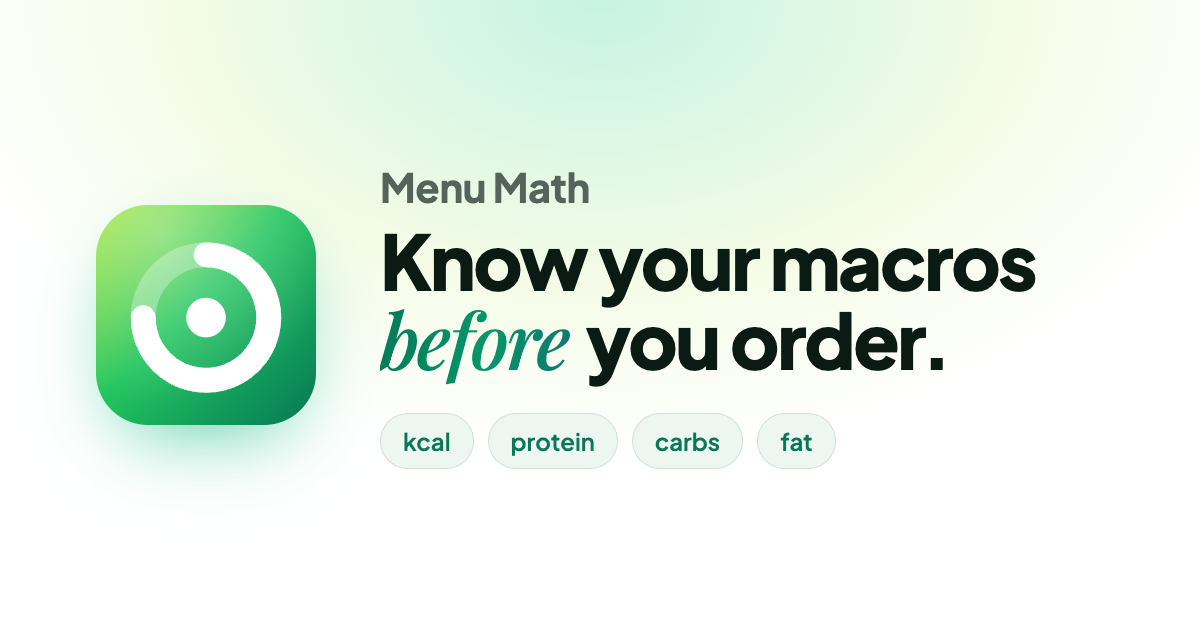
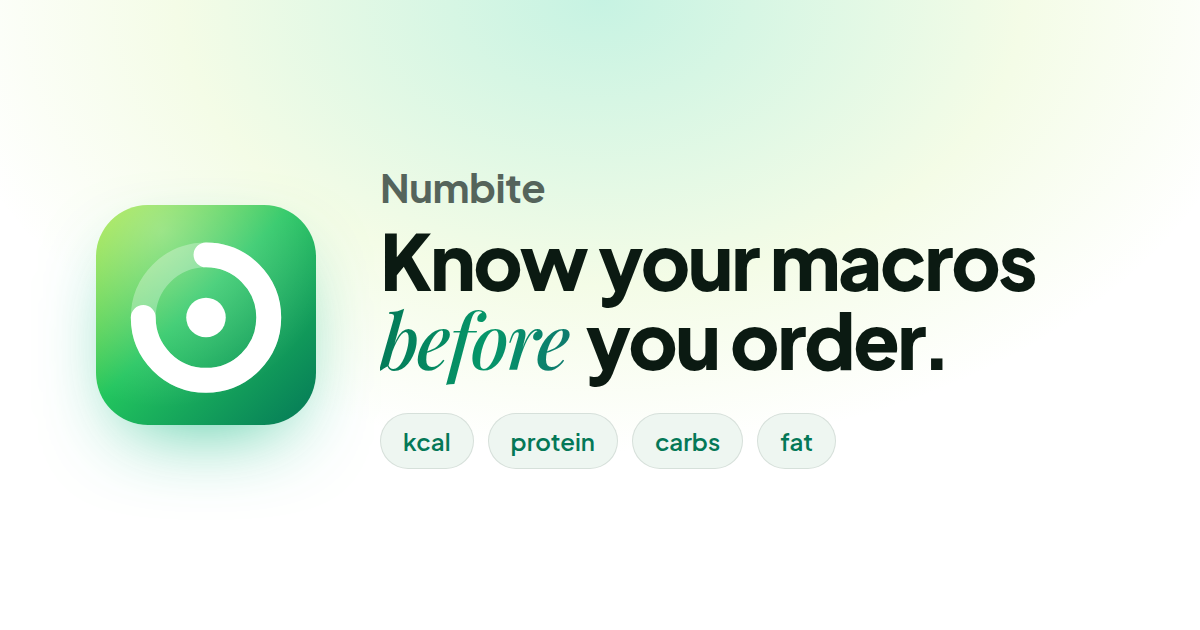
Rename the app to Numbite
Founder 2026-10-12: "I like numbite" and "Yes, rename to Numbite". "Menu Math"
used the US spelling and sounded restaurant-only; about 80 names were checked
and most are taken. Numbite has no app on the UK or US App Store, nothing on
the web, and its .com, .co.uk and .app domains were free.

site.config.ts (name; App Store title "Numbite: Calories & Protein"),
AppConfig.appName and the Xcode display name; every screen and translation
picks it up through site.name / {app}. Social card re-rendered, offline cache
bumped to mm-v4, store text, build guide, README and progress log updated.
Bundle ID, scheme, storage keys, icon and Pip are unchanged.

Claude-Session: https://claude.ai/code/session_013WSw8yjNVgJY2jsVdLxC3q

diff --git a/web/public/sw.js b/web/public/sw.js
@@ -1,4 +1,4 @@
-/* Menu Math web app service worker.
+/* Numbite web app service worker.
  *
  * Goal: after you've opened something once, it keeps working with a poor or no connection.
  *  - /_next/static/* and /icons/*: cache-first (Next.js names contain a content hash; icons do not, so bump VERSION when they change)
@@ -10,7 +10,7 @@
  * Nothing under /api/ is ever cached, and only same-origin GET requests are handled.
  * Bump VERSION to drop all old caches.
  */
-const VERSION = "mm-v3"; // v3: green app icon (icon files keep their names, so changing them needs a bump)
+const VERSION = "mm-v4"; // v4: renamed to Numbite (the app shells carry the name); v3: green app icon (icon files keep their names, so changing them needs a bump)
 const STATIC = `${VERSION}-static`;
 const PAGES = `${VERSION}-pages`;
 const DATA = `${VERSION}-data`;

diff --git a/MenuMacros/App/AppConfig.swift b/MenuMacros/App/AppConfig.swift
@@ -4,7 +4,7 @@ import Foundation
 /// (docs/APP_BUILD.md): the web app reaches the live website itself (NEXT_PUBLIC_REMOTE_BASE in scripts/build_app_web.sh), so the
 /// example.com addresses below are only for the native screens planned later (docs/BUILD_PLAN.md).
 nonisolated enum AppConfig {
-    static let appName = "Menu Math"   // user-facing name; keep in sync with web/site.config.ts and docs/STORE.md
+    static let appName = "Numbite"   // user-facing name; keep in sync with web/site.config.ts and docs/STORE.md
     /// Where the packed web app starts (Features/WebApp/WebAppFiles.swift). The API on the live website allows this origin (web/lib/cors.ts).
     static let webAppStartURL = URL(string: "app://menumath/app")!
     static let websiteURL = URL(string: "https://example.com")!

diff --git a/web/lib/mm/aiRecipe.ts b/web/lib/mm/aiRecipe.ts
@@ -84,7 +84,7 @@ export function dietText(d: DietPrefs): string {
   return parts.length ? parts.join("; ") : "no restrictions";
 }
 
-export const RECIPE_SYSTEM_PROMPT = `You are Pip, the friendly recipe helper in Menu Math, a UK app people use to eat out, shop and cook. You write one simple home recipe.
+export const RECIPE_SYSTEM_PROMPT = `You are Pip, the friendly recipe helper in Numbite, a UK app people use to eat out, shop and cook. You write one simple home recipe.
 
 Rules:
 - Use only ingredients from the pantry list, referred to by their key. Each line is a real product at the person's supermarket with its label figures per 100 g or ml as sold ("drained" means per 100 g of drained weight).

diff --git a/web/site.config.ts b/web/site.config.ts
@@ -1,8 +1,8 @@
 // One place for names, links and copy shared across the website.
 // Change `name` here if you pick a different app name (and update docs/STORE.md to match).
 export const site = {
-  name: "Menu Math",
-  appStoreTitle: "Menu Math: Fast Food Macros",
+  name: "Numbite",
+  appStoreTitle: "Numbite: Calories & Protein",
   tagline: "Know your macros before you order.",
   description:
     "Full calories, protein, carbs, fat and salt for every item at popular UK restaurant chains, and the best order for what you have left today.",

diff --git a/MenuMacros/Services/BarcodeScanner.swift b/MenuMacros/Services/BarcodeScanner.swift
@@ -6,7 +6,7 @@ import VisionKit
 nonisolated enum ScanOutcome: Equatable, Sendable {
     case code(String)
     case cancelled
-    /// The person refused the camera (Settings › Menu Math).
+    /// The person refused the camera (Settings › Numbite).
     case denied
     /// This iPhone can't scan (no camera, or no Neural Engine for the live scanner).
     case unavailable

diff --git a/MenuMacrosTests/AppConfigTests.swift b/MenuMacrosTests/AppConfigTests.swift
@@ -3,7 +3,7 @@ import Testing
 
 struct AppConfigTests {
     @Test func appNameMatchesTheWebsite() {
-        #expect(AppConfig.appName == "Menu Math")
+        #expect(AppConfig.appName == "Numbite")
     }
 
     @Test func theWebAppStartsOnTheAppsOwnScheme() {

diff --git a/docs/STORE.md b/docs/STORE.md
@@ -1,15 +1,17 @@
 # App Store listing and release checklist (free launch)
 
 Founder 2026-10-12: ship the app **free** (no subscription, no AI recipe maker), then add Pro and the extras in updates. The app is the web
-app packed inside an iPhone app (docs/APP_BUILD.md). Name: **Menu Math** ("MenuMacros" is taken by a similar app, "MenuMacros: Eat Out
-Healthily", June 2026). Everything below is a **draft for the founder to approve** (CLAUDE.md rule 8): numbers are from the published
+app packed inside an iPhone app (docs/APP_BUILD.md). Name: **Numbite** (founder 2026-10-12; numbers + bite). Checked that day: no app
+called Numbite on the UK or US App Store, nothing by that name on the web, and numbite.com, numbite.co.uk and numbite.app free; it is a
+coined word, the strongest kind of trade mark. Earlier names were dropped: "MenuMacros" is taken ("MenuMacros: Eat Out Healthily", June
+2026) and "Menu Math" used the US spelling and sounded restaurant-only. Everything below is a **draft for the founder to approve** (CLAUDE.md rule 8): numbers are from the published
 data on 12 October 2026; if web/app-content.json leaves shops or photos out of the app, update the numbers and the description.
 
 | Field (limit) | Text |
 |---|---|
-| App name (30) | **Menu Math: Eat Out & Macros** (27) |
-| Subtitle (30) | **Calories for UK menus & shops** (29) |
-| Keywords (100) | `calories,protein,macros,nutrition,restaurant,menu,counter,diet,glp1,recipes,grocery,takeaway,uk` (95) |
+| App name (30) | **Numbite: Calories & Protein** (27) |
+| Subtitle (30) | **UK menus, shops & recipes** (25) |
+| Keywords (100) | `macros,nutrition,restaurant,counter,diet,glp1,grocery,takeaway,supermarket,cooking,meal,food` (92; words already in the name and subtitle are indexed anyway, so they aren't repeated) |
 | Primary / secondary category | Food & Drink / Health & Fitness |
 | Promotional text (170) | Every dish at 238 UK restaurants and 68,000 supermarket products, with calories and protein. Free, no account, works offline. (125) |
 | Price | Free (no in-app purchases in this version) |
@@ -20,7 +22,7 @@ data on 12 October 2026; if web/app-content.json leaves shops or photos out of t
 
 ## Description (draft)
 
-Know the numbers before you eat. Menu Math shows the calories, protein, carbs and fat for every dish at 238 UK restaurants, cafés and
+Know the numbers before you eat. Numbite shows the calories, protein, carbs and fat for every dish at 238 UK restaurants, cafés and
 pubs, taken from each chain's own published nutrition information, with the source and the date we checked shown on every menu.
 
 Eat out. Search a restaurant or find the ones near you, see every dish's numbers, and get the best orders for your goal and what you
@@ -40,7 +42,7 @@ Easy to use. Large text options, a plain layout, and 11 languages.
 Private by design. No account, no ads, no tracking. Your settings, saved meals and lists stay on your phone. Your location is used on
 your phone only.
 
-Every feature is free. Menu Math isn't affiliated with any restaurant or shop, and doesn't give medical advice.
+Every feature is free. Numbite isn't affiliated with any restaurant or shop, and doesn't give medical advice.
 
 ## Screenshots (6.9" iPhone, 1320 × 2868)
 
@@ -85,7 +87,7 @@ Pro and a domain before submitting.)
 
 ## Notes for App Review (draft)
 
-"Menu Math shows restaurants' and supermarkets' published nutrition information, works fully offline, and has no account or login. The
+"Numbite shows restaurants' and supermarkets' published nutrition information, works fully offline, and has no account or login. The
 app is free with no in-app purchases. Restaurant and shop names and logos are shown small next to the name only to identify whose menu or
 products are listed; the app says it is not affiliated with any of them, and we remove any logo the day its owner asks (we can do this
 without an app update). The barcode scanner (Groceries › Scan a barcode) and Near me (Eat out › Near me) use the camera and location on
@@ -95,10 +97,11 @@ the device only."
 
 - [ ] Decide which supermarkets the App Store version includes (web/app-content.json; food photos are in): see docs/APP_BUILD.md
 - [ ] Domain + Vercel Pro; support email on the domain; /privacy, /terms and /support read and true
-- [ ] UK trade mark search for "Menu Math" (gov.uk "Search for a trade mark")
+- [ ] Register numbite.co.uk (and numbite.com / numbite.app) now, before someone else does
+- [ ] UK trade mark search for "Numbite" (gov.uk "Search for a trade mark"), and consider filing it (classes 9 and 42)
 - [ ] `./scripts/build_app_web.sh` (with `NEXT_PUBLIC_REMOTE_BASE=https://<your-domain>` once the domain is live), then build in Xcode
 - [ ] Mac session: build, unit and UI tests, simulator check in airplane mode (docs/APP_BUILD.md "Checks before TestFlight")
-- [ ] App Store Connect: app record "Menu Math", bundle `com.amanmarwaha.MenuMacros`, price Free, UK availability
+- [ ] App Store Connect: app record "Numbite: Calories & Protein", bundle `com.amanmarwaha.MenuMacros`, price Free, UK availability
 - [ ] App Privacy form and age rating from the sections above; screenshots from `web/e2e/store-shots.mjs`
 - [ ] Archive and upload from Xcode; TestFlight on your own iPhone (scanner, Near me, share, offline)
 - [ ] Submit; release manually

diff --git a/docs/PROGRESS.md b/docs/PROGRESS.md
@@ -82,7 +82,7 @@ decisions that differ from the spec (and why), and list known issues. Keep it sh
   NEXT_PUBLIC_SHOW_SAMPLE_DATA=1 on Preview only, SUPABASE_URL on both. NEXT_PUBLIC_SUPPORT_EMAIL is set (Production + Preview) to
   the founder's personal address for now — public on the site, privacy page, terms, support page and "Email instead";
   swap for a domain address later (one Vercel env var + redeploy). Still to set: NEXT_PUBLIC_SITE_URL.
-- 2026-10-05 — User-facing name comes from `AppConfig.appName` (currently "Menu Math") — name not final.
+- 2026-10-05 — User-facing name comes from `AppConfig.appName` (currently "Menu Math") — name not final. (2026-10-12: now **Numbite**, see below.)
 
 - 2026-10-05 — **UK first, US later** (founder's call). Energy shows as "kcal", salt in g (UK guides print salt, not
   sodium: stored in `salt`, never converted from or to sodium), British spelling in new copy. The two fictional sample
@@ -1046,6 +1046,18 @@ decisions that differ from the spec (and why), and list known issues. Keep it sh
   absent), diet 5, compare 3, groceries 6/7/8/4, languages 5, offline 13, a11y 0, large text, **prodmode 9** (as shipped: no Pro/AI wording anywhere,
   logging and builder open), **app-build 7** (the packed app with no signal, names-only wall, taken-down logo, fake bridge for scan/locate/share).
 
+- 2026-10-12 — **The app is now called Numbite** (founder: "are you sure this is the best name for my app i feel there must be one better", "think
+  of more", then "I like numbite actually" and "Yes, rename to Numbite"). Why: "Menu Math" used the US spelling ("maths" in the UK), sounded
+  restaurant-only and like homework. About 80 names were checked against the UK App Store and domains; most were taken (MenuMacros twice,
+  MacroMenu, MenuWise, MenuLens, Platewise, MealWise, MunchMap, Nosh, Plateful, Morsel, Forkcast's .co.uk/.app sites, Tuck In, Know Your Plate...).
+  **Numbite** (numbers + bite): no app of that name on the UK or US App Store, nothing on the web, numbite.com / .co.uk / .app free on 12 October
+  2026, a coined word. Changed: `web/site.config.ts` (`name`, `appStoreTitle` "Numbite: Calories & Protein"), `AppConfig.appName`, the Xcode
+  display name, the social card (re-rendered by `web/e2e/brand.mjs`), comments and docs/STORE.md (draft: subtitle "UK menus, shops & recipes",
+  keywords without repeats or brand names), docs/APP_BUILD.md, README. The name reaches every screen and translation through `site.name` / `{app}`,
+  so no translation changed. Unchanged on purpose: the bundle ID `com.amanmarwaha.MenuMacros`, the repo and folder names, the `app://menumath`
+  scheme (internal; the API's CORS allows exactly it), the `mm.v1.*` storage keys (saved data survives), the icon (no words) and Pip. Offline cache
+  bumped to `mm-v4` so installed copies pick up the new name.
+
 ## Known issues
 
 - Web: no nearby chains and no Apple Health (by design, see WEB_BUILD_PLAN.md); payments not wired.
@@ -1056,7 +1068,7 @@ decisions that differ from the spec (and why), and list known issues. Keep it sh
 
 - [x] **Decide: should logging meals be free?** No, it stays Pro (2026-10-11).
 - [x] ~~Before launch: switch off `ALL_FREE_FOR_TESTING`~~ replaced 2026-10-12: the free launch ships with Pro off (`PRO_ENABLED`); turn Pro on in a later update with payments
-- [ ] **Free App Store launch: follow docs/APP_BUILD.md "Steps for the founder"** (domain + Vercel Pro, read the legal pages, UK trade mark search for "Menu Math", App Store Connect record, privacy and age rating, archive, TestFlight, submit) and run the Mac session's checks first
+- [ ] **Free App Store launch: follow docs/APP_BUILD.md "Steps for the founder"** (register numbite.co.uk / .com / .app first, then Vercel Pro on the domain, read the legal pages, UK trade mark search for "Numbite", App Store Connect record, privacy and age rating, archive, TestFlight, submit) and run the Mac session's checks first
 - [ ] **Decide which supermarkets go into the App Store version** (`web/app-content.json`; all nine until you say; the six whose terms restrict copying: Tesco, Waitrose, Morrisons, Iceland, Aldi, M&S). Food photos: decided 2026-10-12, all in ("yes i want all the food photos there")
 - [ ] **Approve the App Store copy** in docs/STORE.md (name, subtitle, keywords, description, review notes: drafts)
 - [ ] **Translations: have a native speaker check each language before launch** (they were made by AI): at least the allergen names, "contains"/"may contain",

diff --git a/docs/APP_BUILD.md b/docs/APP_BUILD.md
@@ -65,13 +65,14 @@ website shows from the shops' own servers still load from those servers when onl
 ## Steps for the founder (things only you can do)
 
 1. **Decide** which supermarkets go in (web/app-content.json; food photos are in), or tell Claude.
-2. **Domain + Vercel Pro**, and a support email on the domain (Vercel › Project menumacros › Settings › Domains; then set
+2. **Domain (numbite.co.uk) + Vercel Pro**, and a support email on the domain (Vercel › Project menumacros › Settings › Domains; then set
    `NEXT_PUBLIC_SITE_URL` and `NEXT_PUBLIC_SUPPORT_EMAIL`, and redeploy). Build the app with
    `NEXT_PUBLIC_REMOTE_BASE=https://<your-domain> ./scripts/build_app_web.sh` so it talks to the domain.
 3. **Read** /privacy, /terms and /support on the live site and confirm every sentence is true.
-4. **UK trade mark search** for "Menu Math": gov.uk › "Search for a trade mark" (classes 9 and 42 for apps).
-5. **App Store Connect** (appstoreconnect.apple.com) › Apps › + › New App: iOS, name "Menu Math: Eat Out & Macros" (or your choice),
-   primary language English (UK), bundle ID `com.amanmarwaha.MenuMacros`, SKU `menumath-ios`. Then:
+4. **Register the domains and check the name:** numbite.co.uk (main), numbite.com and numbite.app; then a UK trade mark search for
+   "Numbite": gov.uk › "Search for a trade mark" (classes 9 and 42 for apps), and consider filing it.
+5. **App Store Connect** (appstoreconnect.apple.com) › Apps › + › New App: iOS, name "Numbite: Calories & Protein" (or your choice),
+   primary language English (UK), bundle ID `com.amanmarwaha.MenuMacros`, SKU `numbite-ios`. Then:
    - Pricing and Availability: Free; United Kingdom.
    - App Privacy: answer from docs/STORE.md "App Privacy"; Privacy Policy URL `https://<your-domain>/privacy`.
    - Age Rating: from docs/STORE.md "Age rating".

diff --git a/README.md b/README.md
@@ -33,9 +33,10 @@ docs/BACKEND.md                How the backend works + the API contract the app 
 docs/SETUP_VERCEL_SUPABASE.md  Step-by-step Vercel + Supabase setup (do this first)
 ```
 
-**The app name:** the website uses "Menu Math" (`web/site.config.ts`); the Xcode project and docs
-say MenuMacros. The project name never shows to users, so it can stay. If you pick a different name,
-change `web/site.config.ts` and `docs/STORE.md`.
+**The app name:** the app is called **Numbite** (founder 2026-10-12; `web/site.config.ts`, `AppConfig.appName`, the Xcode display name).
+The Xcode project, bundle ID and many docs still say MenuMacros (or the earlier "Menu Math"): those never show to users, so they stay.
+To change the name again, edit `web/site.config.ts`, `MenuMacros/App/AppConfig.swift`, the display name in `project.pbxproj` and
+`docs/STORE.md`, then run `node web/e2e/brand.mjs` (the social card prints the name).
 
 ## Order of setup
 

diff --git a/docs/SPEC.md b/docs/SPEC.md
@@ -1,5 +1,7 @@
 # MenuMacros — product and technical spec (v1)
 
+> **2026-10-12:** the product is now called **Numbite** (docs/PROGRESS.md). Older names in this spec (MenuMacros, Menu Math) are history; the user-facing name comes from `web/site.config.ts` and `AppConfig.appName`.
+
 Read the section you need before implementing it. Section numbers are referenced from
 `docs/BUILD_PLAN.md`. The full business blueprint (market, marketing) is in
 `docs/MenuMacros_App_Blueprint.pdf`; you don't need it to write code. **Where the PDF and this
